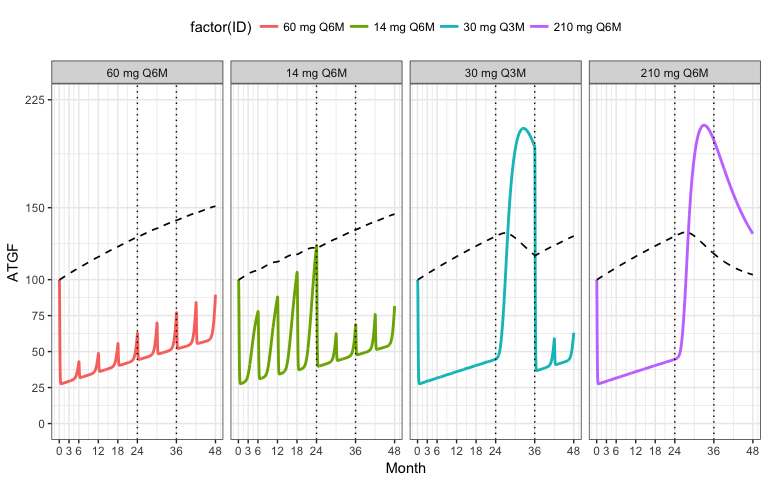
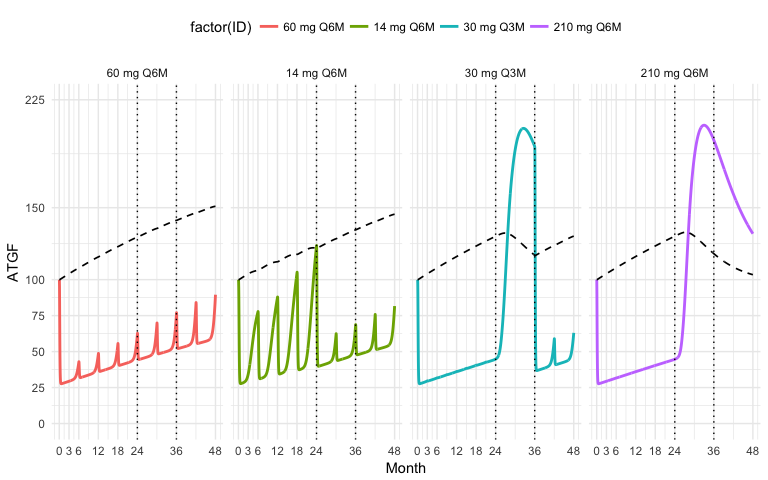
rebuild

diff --git a/docs/OpenBoneMin.md b/docs/OpenBoneMin.md
@@ -275,7 +275,7 @@ ggplot(out) +
   geom_line(aes(x = Month, y = ATGF, col = factor(ID)), lwd = 1) + 
   geom_line(aes(x = Month, y = LTGF), col = "black", lty = 2, lwd = 0.6) + 
   facet_grid(~ID) + 
-  theme_bw() + theme(legend.position = "top") + 
+  theme_minimal() + theme(legend.position = "top") + 
   geom_vline(xintercept = c(24,36), lty = 3) + xscale +
   scale_y_continuous(breaks = c(0,25,50,75,100,150,225), limits = c(0,225)) 
 ```
